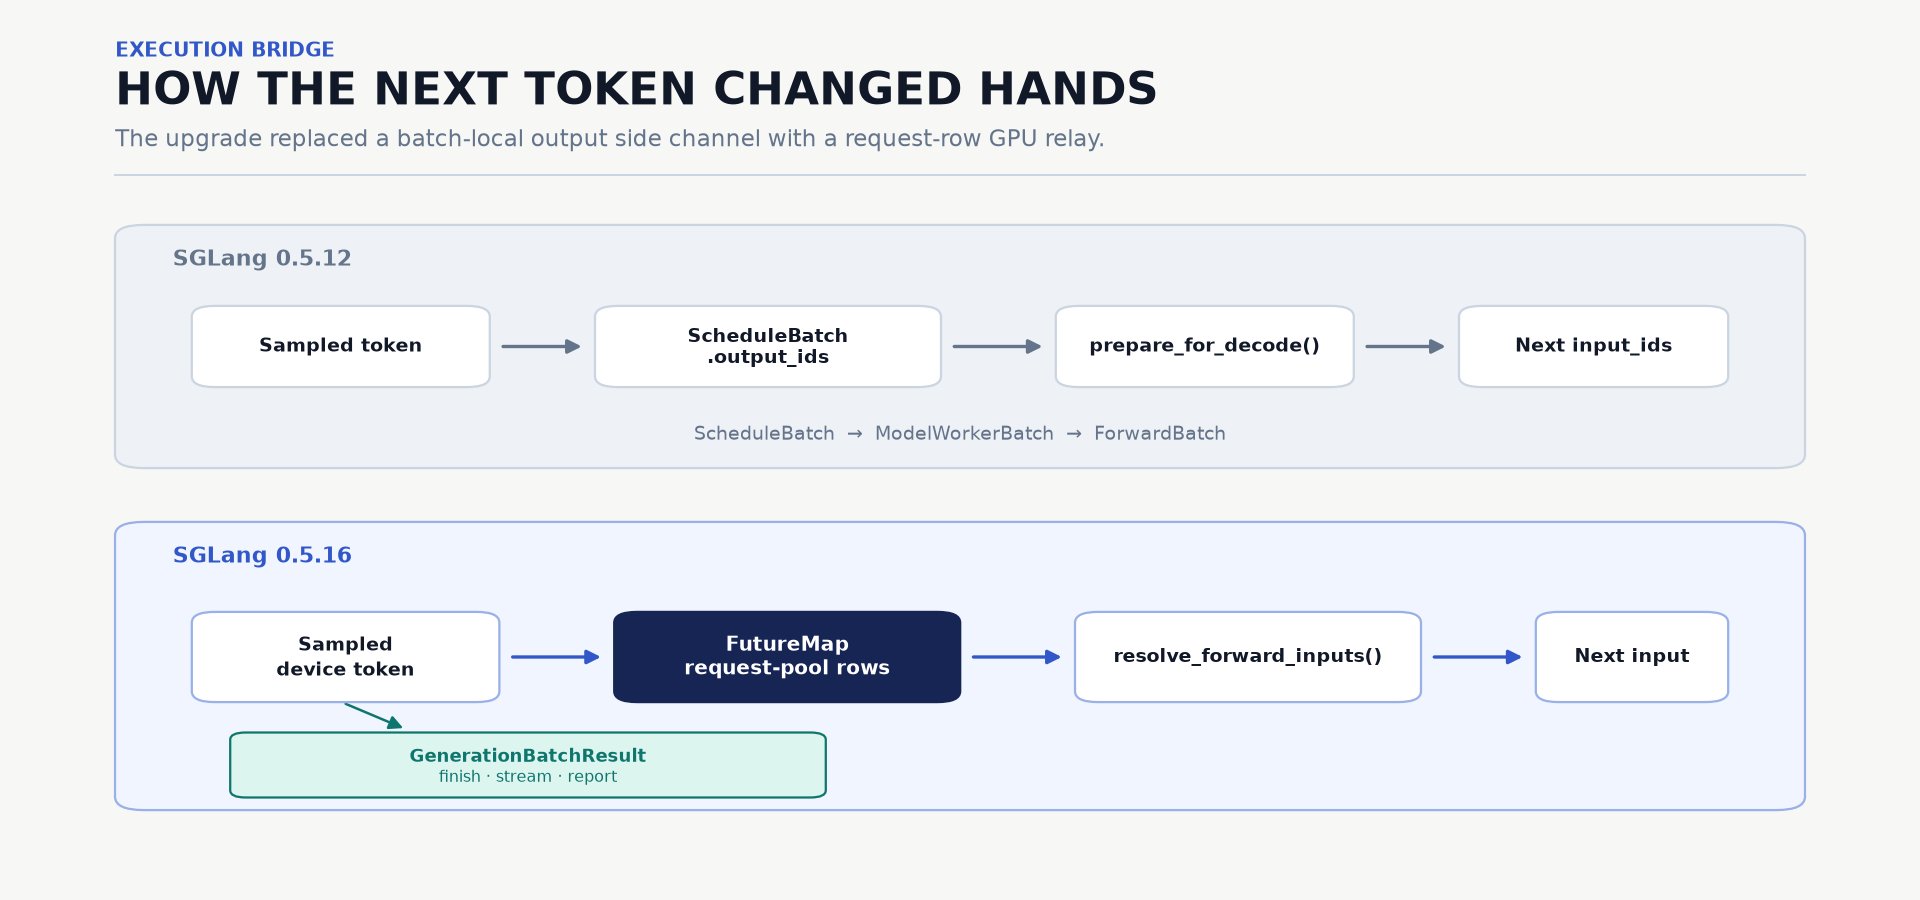
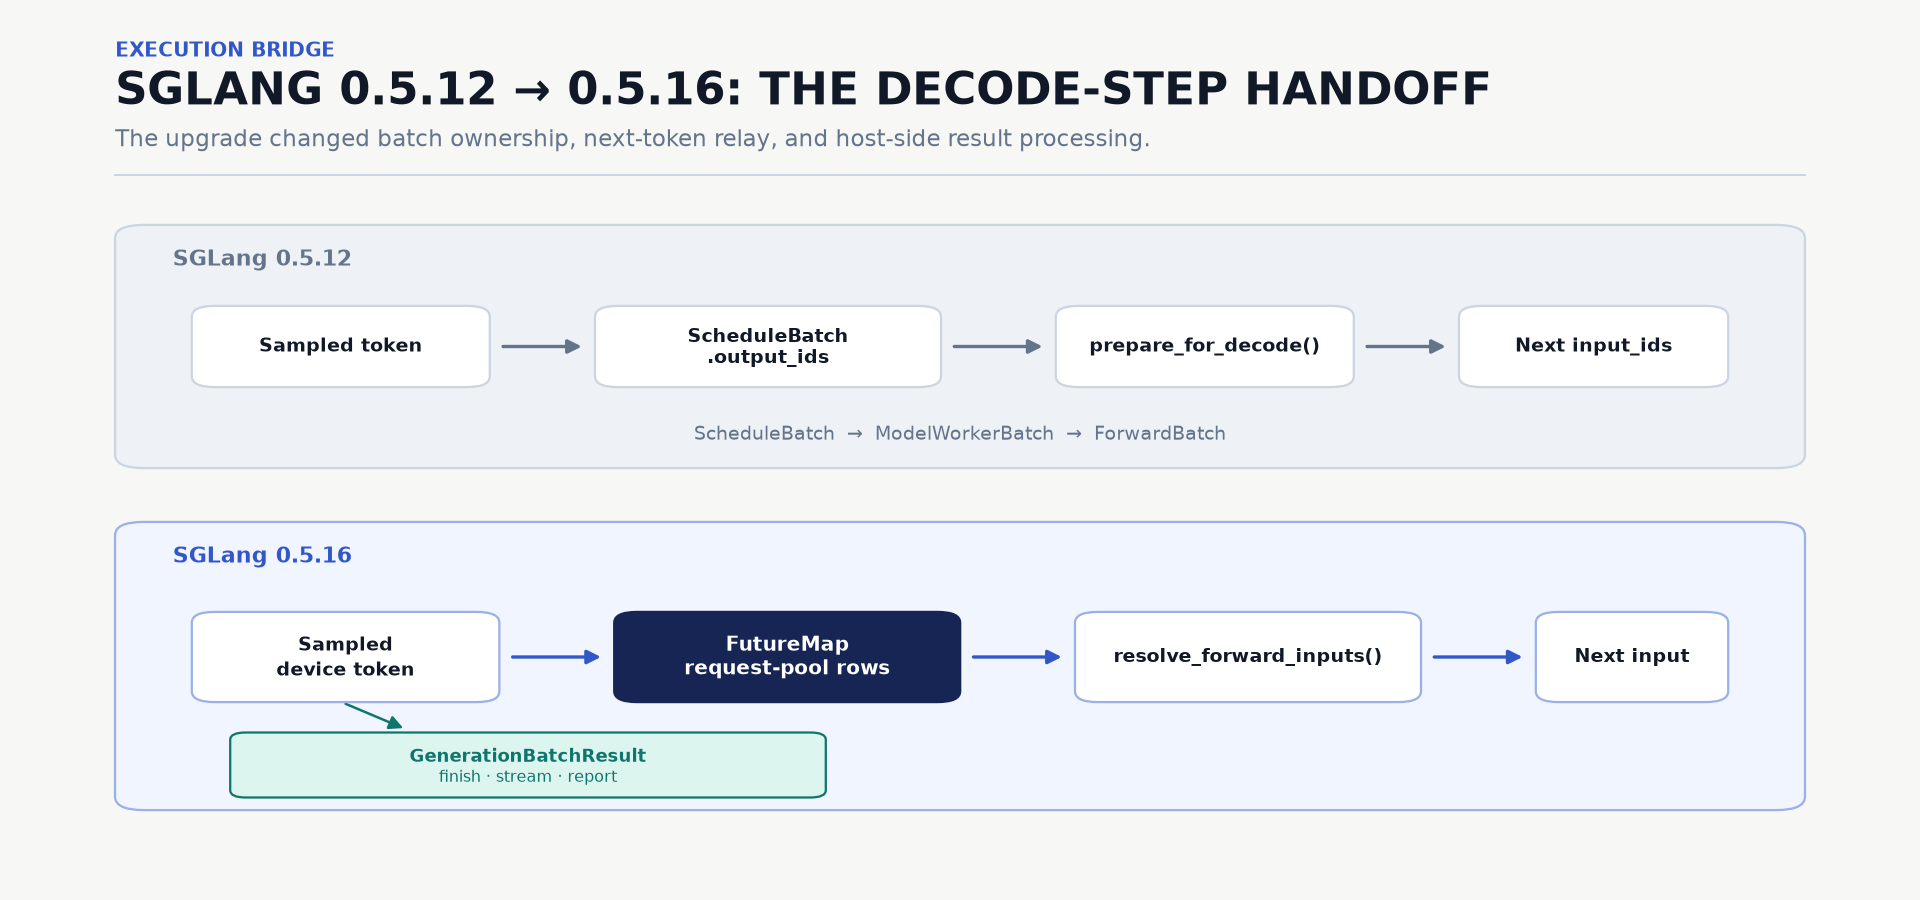
Clarify scheduler handoff headings

Changed region(s): [[0.0625, 0.0622, 0.7812, 0.1867]]

diff --git a/sglang/sglang-omni/version_bump.md b/sglang/sglang-omni/version_bump.md
@@ -9,7 +9,7 @@ The upgrade PR's diff was enormous. As I said above, SGLang Omni can hardly be j
 
 These issues made up the nightmare of this upgrade, and they are why we are reflecting here in the hope that future upgrades can be lighter.
 
-## Why This Bump Reached Further
+## Why This Upgrade Was More Than an API Change
 
 The previous pinned upgrade, [PR #698](https://github.com/sgl-project/sglang-omni/pull/698), moved SGLang from `0.5.8` to `0.5.12.post1`. It was not a small change: it updated Transformers and PyTorch, repaired model-specific assumptions, and adapted request-pool, sampling, output-type, device, and CUDA dependencies. Its center of gravity, however, remained at the integration edges. It did not materially rewrite Omni's scheduler or its base model-runner execution path.
 
@@ -17,7 +17,7 @@ The previous pinned upgrade, [PR #698](https://github.com/sgl-project/sglang-omn
 
 That distinction matters more than the raw diff size. PR #698 mostly repaired callers after upstream interfaces moved. PR #1183 had to re-establish an execution protocol that Omni partially implements itself. The numerical, lifecycle, and memory-accounting failures later in this article are different forms of the same underlying problem: the integration depends on behavior that is real and necessary, but not expressed through one stable interface.
 
-## How the Next Token Changed Hands
+## How SGLang 0.5.16 Changed the Decode-Step Handoff
 
 The clearest way to understand the scheduler change is to follow one `ScheduleBatch` across two decode iterations.
 
@@ -29,7 +29,7 @@ SGLang `0.5.16` uses a different ownership model. `get_next_batch_to_run(running
 
 The sampled token no longer travels through `ScheduleBatch.output_ids`. Before a forward, `resolve_forward_inputs()` materializes the current input from scheduler staging or from a `FutureMap`. After sampling, the next device token is stashed in that map under the request-pool rows. The live batch clears `input_ids`, and the following iteration resolves those rows back into its input.
 
-![How the next token changed hands between SGLang 0.5.12 and 0.5.16](images/sglang-v0516-scheduler-token-relay.png)
+![How SGLang 0.5.16 changed the decode-step handoff](images/sglang-v0516-scheduler-token-relay.png)
 
 `FutureMap` is not carrying speculative-decoding state in this Omni path. The bridge rejects speculative decoding and creates the map with the non-speculative algorithm. Here, the map is the ordinary device-token relay used by SGLang's `0.5.16` non-overlap execution path; only its speculative extras remain unused.
 
